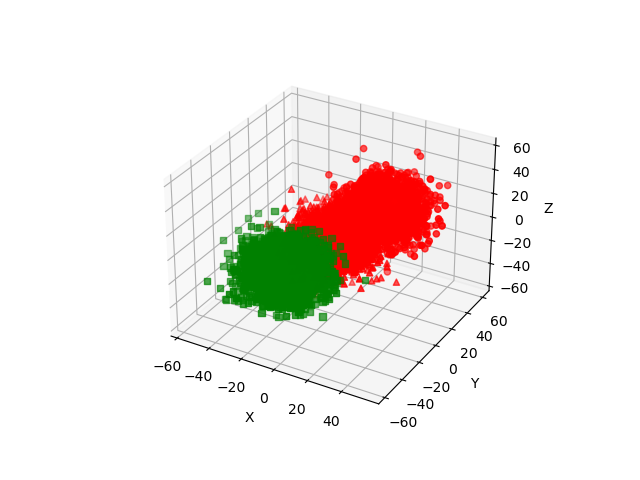
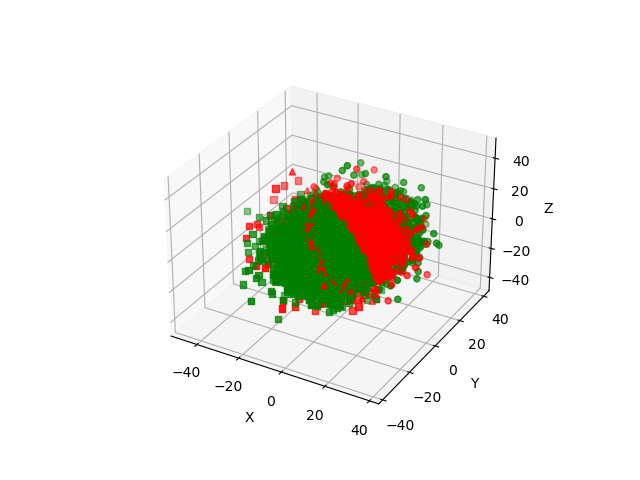
Fix graph

diff --git a/HW2_2_A.py b/HW2_2_A.py
@@ -1,0 +1,142 @@
+import numpy as np
+import matplotlib.pyplot as plt
+from sklearn.mixture import GaussianMixture
+
+# Define the number of samples and the dimension of the random vector X
+n_samples = 10000
+n_features = 3
+
+# Define the class priors
+priors = [0.3, 0.3, 0.4]
+
+# Define the Gaussian components for the class-conditional pdfs
+g1 = GaussianMixture(n_components=1, covariance_type='full', init_params='random')
+g2 = GaussianMixture(n_components=1, covariance_type='full', init_params='random')
+g3 = GaussianMixture(n_components=2, covariance_type='full', init_params='random')
+g3.weights_ = [0.5, 0.5]
+
+# Fit the Gaussian components to the data
+g1.fit([5, 7, 3]+10*np.random.randn(10000, n_features))
+g2.fit(10*np.random.randn(10000, n_features))
+g3.fit([-4,-2,-3]+10*np.random.randn(10000, n_features))
+
+# Generate the samples from the data distribution
+samples = np.zeros((n_samples, n_features))
+labels = np.zeros(n_samples)
+
+for i in range(n_samples):
+    label = np.random.choice([1, 2, 3], p=priors)
+    if label == 1:
+        samples[i] = g1.sample()[0]
+    elif label == 2:
+        samples[i] = g2.sample()[0]
+    else:
+        samples[i] = g3.sample()[0]
+    labels[i] = label
+
+# Implement the decision rule that achieves minimum probability of error
+# Classify the 10K samples and count the samples corresponding to each decision-label pair
+# Save the correct and incorrect points in separate vectors for each decision
+confusion_matrix = np.zeros((3, 3))
+correct1 = []
+incorrect1 = []
+correct2 = []
+incorrect2 = []
+correct3 = []
+incorrect3 = []
+for i in range(n_samples):
+    sample = samples[i]
+    label = labels[i]
+    if g1.score(sample.reshape(1, -1)) > g2.score(sample.reshape(1, -1)) and g1.score(sample.reshape(1, -1)) > g3.score(sample.reshape(1, -1)):
+        decision = 1
+    elif g2.score(sample.reshape(1, -1)) > g1.score(sample.reshape(1, -1)) and g2.score(sample.reshape(1, -1)) > g3.score(sample.reshape(1, -1)):
+        decision = 2
+    else:
+        decision = 3
+    confusion_matrix[int(label) - 1, int(decision) - 1] += 1
+    if label == decision:
+        if decision == 1:
+            correct1.append(sample)
+        elif decision == 2:
+            correct2.append(sample)
+        else:
+            correct3.append(sample)
+    else:
+        if decision == 1:
+            incorrect1.append(sample)
+        elif decision == 2:
+            incorrect2.append(sample)
+        else:
+            incorrect3.append(sample)
+confusion_matrix = confusion_matrix / n_samples
+
+#confusion_matrix = np.zeros((3, 3))
+#for i in range(n_samples):
+#    sample = samples[i, :].reshape(1, -1)
+#    p1 = g1.score_samples(sample)
+#    p2 = g2.score_samples(sample)
+#    p3 = g3.score_samples(sample)
+#    if p1 > p2 and p1 > p3:
+#        confusion_matrix[0, int(labels[i]-1)] += 1
+#    elif p2 > p1 and p2 > p3:
+#        confusion_matrix[1, int(labels[i]-1)] += 1
+#    else:
+#        confusion_matrix[2, int(labels[i]-1)] += 1
+#confusion_matrix = confusion_matrix / n_samples
+
+# Plot the samples in 3-dimensional space
+# Decision 1: circle marker
+# Decision 2: triangle marker
+# Decision 3: square marker
+# Correct Decisions: Green // Incorrect Decisions: Red
+fig = plt.figure()
+ax = fig.add_subplot(111, projection='3d')
+ax.scatter(np.array(correct1)[:, 0], np.array(correct1)[:, 1], np.array(correct1)[:, 2], marker='o', color='g')
+ax.scatter(np.array(incorrect1)[:, 0], np.array(incorrect1)[:, 1], np.array(incorrect1)[:, 2], marker='o', color='r')
+ax.scatter(np.array(correct2)[:, 0], np.array(correct2)[:, 1], np.array(correct2)[:, 2], marker='^', color='g')
+ax.scatter(np.array(incorrect2)[:, 0], np.array(incorrect2)[:, 1], np.array(incorrect2)[:, 2], marker='^', color='r')
+ax.scatter(np.array(correct3)[:, 0], np.array(correct3)[:, 1], np.array(correct3)[:, 2], marker='s', color='g')
+ax.scatter(np.array(incorrect3)[:, 0], np.array(incorrect3)[:, 1], np.array(incorrect3)[:, 2], marker='s', color='r')
+ax.set_xlabel('X')
+ax.set_ylabel('Y')
+ax.set_zlabel('Z')
+plt.show()
+
+#fig = plt.figure()
+#ax = fig.add_subplot(111, projection='3d')
+#for i in range(n_samples):
+#    if labels[i] == 1:
+#        if confusion_matrix[0, 0] != 0:
+#            ax.scatter(samples[i, 0], samples[i, 1], samples[i, 2], marker='o', color='g')
+#        else:
+#            ax.scatter(samples[i, 0], samples[i, 1], samples[i, 2], marker='o', color='r')
+#    elif labels[i] == 2:
+#        if confusion_matrix[1, 1] != 0:
+#            ax.scatter(samples[i, 0], samples[i, 1], samples[i, 2], marker='^', color='g')
+#        else:
+#            ax.scatter(samples[i, 0], samples[i, 1], samples[i, 2], marker='^', color='r')
+#    else:
+#        if confusion_matrix[2, 2] != 0:
+#            ax.scatter(samples[i, 0], samples[i, 1], samples[i, 2], marker='s', color='g')
+#        else:
+#            ax.scatter(samples[i, 0], samples[i, 1], samples[i, 2], marker='s', color='r')
+#ax.set_xlabel('X')
+#ax.set_ylabel('Y')
+#ax.set_zlabel('Z')
+#plt.show()
+
+# Plot the confusion matrix
+fig = plt.figure(figsize=(10, 10))
+ax = fig.add_subplot(111)
+ax.imshow(confusion_matrix, cmap='Blues')
+ax.set_xticks([0, 1, 2])
+ax.set_yticks([0, 1, 2])
+ax.set_xticklabels(['1', '2', '3'])
+ax.set_yticklabels(['1', '2', '3'])
+ax.set_xlabel('Decision')
+ax.set_ylabel('Label')
+for i in range(3):
+    for j in range(3):
+        ax.text(j, i, str(confusion_matrix[i, j]), ha='center', va='center', color='black')
+plt.show()
+        
